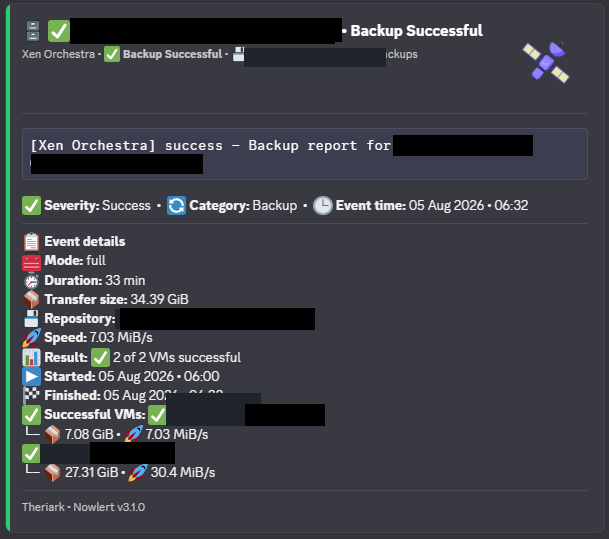
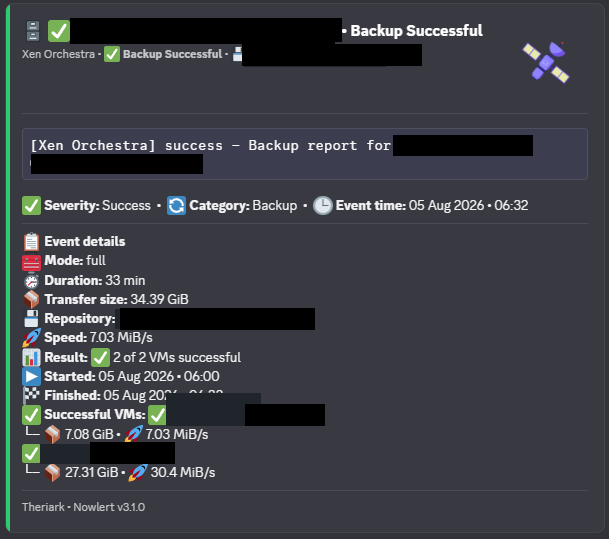
docs: screenshot privacy review of 18 November (NCE-95)
- New 1440 px Dashboard and Routing Flow captures of Development (27 November,
  Live, last month); the Dashboard capture no longer shows the page loading.
- Solid black boxes replace the blur in v2.5.2-settings and three Zabbix
  captures, and cover the host-name fragment and two blurred destination names
  in the historical v3.1.0 Routing Flow and the end of the repository label in
  the v3.1.0 Xen Orchestra card.
- The three token captures, opened at full size with no token value, are
  linked again from the hardware Redfish, Portainer and tutorials pages.
- WebUI guide: pager wording `Page n of N · X items`, the November WebUI
  changes (PRs 651 to 666), the Backups note; Docker Hub capture note.
- screenshot-privacy.md: the four open points recorded as decided by the
  product owner, inventory rows updated.

Changed region(s): [[0.3744, 0.0594, 0.7176, 0.1484]]

diff --git a/docs/guides/screenshot-privacy.md b/docs/guides/screenshot-privacy.md
@@ -343,14 +343,14 @@ and the `images/portainer-setup/` set, the TrueNAS delivery capture and the
 remaining Home Assistant delivery capture show no readable private label.
 
 The items below were raised by that review as lower-severity or judgement
-calls. The crew has not decided them; they need a person who can open the
-images and apply the project's privacy policy. They are review items, not
-confirmed exposures.
+calls. All of them are now decided; each item says how.
 
-- Routing flow capture `images/v3.1.0-routing-flow.png` (no longer embedded by
-  the README or the Docker Hub README since 24 October 2026; historical only):
-  a Zabbix route filter subtitle may carry a residual host-name fragment.
-  Decide whether to mask, recapture or withdraw.
+- Decided on 27 November 2026 by the product owner (Jira NCE-95): the
+  historical capture `images/v3.1.0-routing-flow.png` stays in the v3.1.0
+  record. The Zabbix route filter subtitle with its host-name fragment and the
+  two blurred destination names are now hidden by solid black boxes. The
+  current Routing Flow is the new capture of 27 November 2026,
+  `images/v27.0.0-rc.1/routing-flow-live-admin-1440.png`.
 - Decided on 2 November 2026: the delivery capture
   `images/hardware-setup/xen-orchestra-delivery.png` (embedded by the Xen
   Orchestra to Discord guide) showed a real backup job label in the Message
@@ -361,11 +361,14 @@ confirmed exposures.
   the backup job label in the title and the footer with the retired product
   name and an organisation fragment. Those three are now hidden by solid black
   boxes like the sibling cards; the card stays as unembedded history.
-- Blurred captures `images/v2.5.2-settings.png`, `images/zabbix-setup/action-operations.png`,
+- Decided on 27 November 2026 by the product owner (Jira NCE-95): in
+  `images/v2.5.2-settings.png`, `images/zabbix-setup/action-operations.png`,
   `images/zabbix-setup/media-enabled.png` and
-  `images/zabbix-setup/recipient-media.png`: parts are blurred and the blurred
-  text is unreadable, but blur is not a masking method this page accepts (see
-  "Adding or replacing an image"). Decide whether to recapture.
+  `images/zabbix-setup/recipient-media.png` every blurred area (the top-left
+  corner of the v2.5.2 Settings page, the Zabbix account name under the logo,
+  the action name, the users and e-mail recipient fields, and the list of
+  actions using the media type) is now covered by a solid black box. The
+  captures stay where they are used.
 - Decided on 25 October 2026 by the product owner (Jira TOPS-422): the
   `images/v27.0.0-rc.1/` set (embedded by the WebUI guide; since that day the
   README and Docker Hub README Preview embed its 1440 px Dashboard, Routing
@@ -384,14 +387,19 @@ confirmed exposures.
   `tools/validate_current_documentation.py` and
   `tests/test_current_documentation_contract.py` enforce the list of captures
   the Preview may use.
-- Token captures `images/hardware-setup/nowlert-token-list.png`,
+- Decided on 27 November 2026 by the product owner (Jira NCE-95): the token
+  captures `images/hardware-setup/nowlert-token-list.png`,
   `images/hardware-setup/nowlert-token-scope.png` and
-  `images/portainer-setup/token-scope.png`: not viewable by the crew (see
-  "Validation records"); unlinked from every current document on 23 October
-  2026; a person must open them before they are linked again.
-- Every retained row shows only its last recorded inspection date. Re-open any
-  capture whose date is considered too old, at full size, and update the
-  Record column.
+  `images/portainer-setup/token-scope.png` were opened at full size. They show
+  the Issue Event API token dialog before a token is issued and the token list;
+  no token value, private address or personal data is visible. They are linked
+  again from the hardware Redfish guide, the Portainer guide and the
+  infrastructure tutorials index.
+- Decided on 27 November 2026 by the product owner (Jira NCE-95): the
+  inspection dates in the Record column are accepted as recorded. A capture is
+  re-opened and its date updated when the capture, or the page it shows,
+  changes. Wording: the guides call the Security page section "API tokens"
+  (its title) and one token an "Event API token" (the dialog's name).
 
 ## Raster inventory
 
@@ -417,7 +425,7 @@ raster under `docs/images/` needs a row.
 | `images/v2.5.2-overview.png` | retained | historical v2.5.2 capture; not embedded; opened 23 Oct 2026 |
 | `images/v2.5.2-routes.png` | retained | historical v2.5.2 capture; not embedded; restored from Git history and masked 2 Nov 2026 (host filter text of one route); still shows route names, integrations, inputs and status |
 | `images/v2.5.2-routing-flow.png` | retained | historical v2.5.2 capture; not embedded; opened 23 Oct 2026 |
-| `images/v2.5.2-settings.png` | retained | historical v2.5.2 capture; not embedded; opened 23 Oct 2026; open point above |
+| `images/v2.5.2-settings.png` | retained | historical v2.5.2 capture; not embedded; opened 23 Oct 2026; blurred top-left corner covered by a black box 27 Nov 2026 |
 | `images/v2.5.2-sources.png` | retained | historical v2.5.2 capture; not embedded; opened 23 Oct 2026 |
 | `images/v2.5.2-teams.png` | retained | historical v2.5.2 capture; not embedded; opened 23 Oct 2026 |
 | `images/v3.1.0-dashboard.png` | retained | historical v3.1.0 capture; reviewed 15 Oct 2026 |
@@ -425,8 +433,8 @@ raster under `docs/images/` needs a row.
 | `images/v3.1.0-delivery-history.png` | retained | historical v3.1.0 capture; not embedded; restored from Git history and masked 3 Nov 2026 with five small black boxes over the private values only (the camera name in two row messages, the gateway name in one row title and its location line, and a device and person name in one row message; the earlier large mask was removed); still shows the page header, titles, sources, outcome chips, attempt and transport chips and times |
 | `images/v3.1.0-discord-idrac.png` | retained | historical v3.1.0 capture; not embedded; opened 23 Oct 2026 |
 | `images/v3.1.0-discord-unifi.png` | retained | historical v3.1.0 capture; not embedded; opened 23 Oct 2026 |
-| `images/v3.1.0-discord-xen-orchestra.png` | retained | historical v3.1.0 card embedded by the Xen Orchestra to Discord guide as historical; restored from Git history and masked 2 Nov 2026 (job name in the title and message, repository and the two VM names; the earlier partial masks kept; on 2 Nov 2026, cycle 3, also the trailing title glyph that was left beside the title mask); still shows mode, duration, sizes, speeds, times and the product footer |
-| `images/v3.1.0-routing-flow.png` | retained | historical v3.1.0 capture; reviewed 15 Oct 2026; open point above |
+| `images/v3.1.0-discord-xen-orchestra.png` | retained | historical v3.1.0 card embedded by the Xen Orchestra to Discord guide as historical; restored from Git history and masked 2 Nov 2026 (job name in the title and message, repository and the two VM names; the earlier partial masks kept; on 2 Nov 2026, cycle 3, also the trailing title glyph that was left beside the title mask); still shows mode, duration, sizes, speeds, times and the product footer; subtitle mask extended over the end of the repository label 27 Nov 2026 |
+| `images/v3.1.0-routing-flow.png` | retained | historical v3.1.0 capture; reviewed 15 Oct 2026; filter subtitle with a host-name fragment and two blurred destination names covered by black boxes 27 Nov 2026 |
 | `images/v3.1.0-teams-xen-orchestra.png` | retained | historical v3.1.0 card embedded by the Xen Orchestra to Teams guide as historical; restored from Git history and masked 2 Nov 2026 (user portrait beside the thread control; the earlier sender-name mask kept); still shows the test alert text, severity, category and the product footer |
 | `images/application-setup/checkmk-all-events.jpg` | retained | reviewed 15 Oct 2026 |
 | `images/application-setup/checkmk-sending-conditions.jpg` | retained | reviewed 15 Oct 2026 |
@@ -449,8 +457,8 @@ raster under `docs/images/` needs a row.
 | `images/hardware-setup/nowlert-destinations.png` | retained | reviewed 15 Oct 2026 |
 | `images/hardware-setup/nowlert-hardware-destination.png` | retained | reviewed 15 Oct 2026; stored webhook hidden |
 | `images/hardware-setup/nowlert-hardware-routes.png` | retained | reviewed 15 Oct 2026 |
-| `images/hardware-setup/nowlert-token-list.png` | retained | reviewed 15 and 21 Oct 2026 (token value hidden); not viewable by the crew on 22 Oct 2026, needs a person; unlinked 23 Oct 2026 |
-| `images/hardware-setup/nowlert-token-scope.png` | retained | reviewed 15 and 21 Oct 2026 (pre-issuance scope form); not viewable by the crew on 22 Oct 2026, needs a person; unlinked 23 Oct 2026 |
+| `images/hardware-setup/nowlert-token-list.png` | retained | reviewed 15 and 21 Oct 2026; opened at full size 27 Nov 2026, token list with no token value; linked again from the hardware Redfish guide 27 Nov 2026 |
+| `images/hardware-setup/nowlert-token-scope.png` | retained | reviewed 15 and 21 Oct 2026; opened at full size 27 Nov 2026, scope form before issuance with no token value; linked again from the hardware Redfish guide 27 Nov 2026 |
 | `images/hardware-setup/nowlert-xen-destination.png` | retained | reviewed 15 Oct 2026 |
 | `images/hardware-setup/nowlert-xen-routes.png` | retained | reviewed 15 Oct 2026 |
 | `images/hardware-setup/portainer-hpe-callback.png` | retained | reviewed 15 Oct 2026 |
@@ -485,7 +493,7 @@ raster under `docs/images/` needs a row.
 | `images/portainer-setup/node-rule-enabled.png` | retained | reviewed 15 Oct 2026 |
 | `images/portainer-setup/receiver-routing-proof.png` | retained | reviewed 15 Oct 2026 |
 | `images/portainer-setup/route-assignment.png` | retained | reviewed 15 Oct 2026 |
-| `images/portainer-setup/token-scope.png` | retained | reviewed 15 and 21 Oct 2026 (pre-issuance scope form); not viewable by the crew on 22 Oct 2026, needs a person; unlinked 23 Oct 2026 |
+| `images/portainer-setup/token-scope.png` | retained | reviewed 15 and 21 Oct 2026; opened at full size 27 Nov 2026, scope form before issuance with no token value; linked again from the Portainer guide 27 Nov 2026 |
 | `images/portainer-setup/webhook-channel.png` | retained | reviewed 15 Oct 2026 |
 | `images/portainer-setup/xen-backup-report-coverage.png` | retained | restored from Git history and masked 2 Nov 2026 (the three job names and identifiers that the earlier large mask left visible); still shows modes, schedule names, states and Report when values |
 | `images/truenas-setup/delivery-proof.png` | retained | reviewed 15 Oct 2026 |
@@ -499,7 +507,7 @@ raster under `docs/images/` needs a row.
 | `images/unifi-setup/protect-delivery.png` | retained | reviewed 15 Oct 2026 |
 | `images/unifi-setup/protect-noise-filter.png` | retained | reviewed 15 Oct 2026 |
 | `images/v27.0.0-rc.1/audit-log-overview-admin-1440.png` | retained | Development capture, 21 Oct 2026; restored from Git history and masked 2 Nov 2026 (the user column of the event list, the record identifier under each resource and, after the independent review the same day, the account name in the sidebar corner); still shows the health checks, counters, action and resource names and the selected event; embedded by the WebUI guide |
-| `images/v27.0.0-rc.1/dashboard-live-admin-1440.png` | retained | Development capture, 12 Nov 2026 (replaces the capture of 21 Oct 2026); opened at full size 12 Nov 2026; crew administrator, synthetic test events; README and Docker Hub Preview |
+| `images/v27.0.0-rc.1/dashboard-live-admin-1440.png` | retained | Development capture, 27 Nov 2026, Live with the month's data (replaces the capture of 12 Nov 2026, which showed the page still loading); opened at full size 27 Nov 2026; crew administrator, synthetic test events; README and Docker Hub Preview |
 | `images/v27.0.0-rc.1/dashboard-live-admin-390.png` | retained | Development capture, 12 Nov 2026 (replaces the capture of 21 Oct 2026); opened at full size 12 Nov 2026, no account, owner, destination or channel name; responsive-layout example in the WebUI guide |
 | `images/v27.0.0-rc.1/dashboard-live-admin-768.png` | retained | Development capture, 12 Nov 2026 (replaces the capture of 21 Oct 2026); opened at full size 12 Nov 2026 |
 | `images/v27.0.0-rc.1/dashboard-live-user-1440.png` | retained | Development capture, 12 Nov 2026 (replaces the capture of 21 Oct 2026); opened at full size 12 Nov 2026; crew user account |
@@ -520,7 +528,7 @@ raster under `docs/images/` needs a row.
 | `images/v27.0.0-rc.1/email-alerts-rules-admin-390.png` | retained | Development capture, 22 Oct 2026 |
 | `images/v27.0.0-rc.1/email-alerts-mailbox-edit-imap-admin-1440.png` | retained | Development capture, 22 Oct 2026; fixture address and loopback host only |
 | `images/v27.0.0-rc.1/filtering-list-admin-1440.png` | retained | Development capture, 12 Nov 2026 (replaces the capture of 31 Oct 2026); shared crew test destinations, their filter names and badges, Integration behavior cards with zero aliases |
-| `images/v27.0.0-rc.1/routing-flow-live-admin-1440.png` | retained | Development capture, 21 Oct 2026; opened at full size 25 Oct 2026; README and Docker Hub Preview |
+| `images/v27.0.0-rc.1/routing-flow-live-admin-1440.png` | retained | Development capture, 27 Nov 2026, Live, last month (replaces the capture of 21 Oct 2026); opened at full size 27 Nov 2026; crew administrator, test integrations and destinations; README and Docker Hub Preview |
 | `images/v27.0.0-rc.1/routing-flow-live-admin-390.png` | retained | Development capture, 21 Oct 2026; opened 24 Oct 2026, no account, owner, destination or channel name; responsive-layout example in the WebUI guide |
 | `images/v27.0.0-rc.1/routing-flow-live-admin-768.png` | retained | Development capture, 21 Oct 2026 |
 | `images/v27.0.0-rc.1/security-profile-admin-1440.png` | retained | Development capture, 12 Nov 2026 (replaces the capture of 31 Oct 2026); crew administrator account, empty token list, no token value |
@@ -530,11 +538,11 @@ raster under `docs/images/` needs a row.
 | `images/v27.0.0-rc.1/sign-in-empty-signed-out-390.png` | retained | Development capture, 21 Oct 2026; opened 24 Oct 2026, no account, owner, destination or channel name; not embedded since 25 Oct 2026 |
 | `images/v27.0.0-rc.1/sign-in-empty-signed-out-768.png` | retained | Development capture, 21 Oct 2026 |
 | `images/v27.0.0-rc.1/users-search-admin-1440.png` | retained | Development capture, 12 Nov 2026 (replaces the capture of 21 Oct 2026); opened at full size 12 Nov 2026; crew accounts only; two black boxes hide the Development administrator's account name in Recent activity |
-| `images/zabbix-setup/action-operations.png` | retained | reviewed 15 Oct 2026 |
-| `images/zabbix-setup/media-enabled.png` | retained | reviewed 15 Oct 2026 |
+| `images/zabbix-setup/action-operations.png` | retained | reviewed 15 Oct 2026; blurred account name, action name and users field covered by black boxes 27 Nov 2026 |
+| `images/zabbix-setup/media-enabled.png` | retained | reviewed 15 Oct 2026; blurred account name and action list covered by black boxes 27 Nov 2026 |
 | `images/zabbix-setup/native-recovery-accepted.png` | retained | reviewed 15 Oct 2026 |
 | `images/zabbix-setup/native-problem-accepted.png` | retained | reviewed 15 Oct 2026 |
-| `images/zabbix-setup/recipient-media.png` | retained | reviewed 15 Oct 2026 |
+| `images/zabbix-setup/recipient-media.png` | retained | reviewed 15 Oct 2026; blurred account name and e-mail recipient covered by black boxes 27 Nov 2026 |
 
 ## Validation records
 
@@ -554,9 +562,9 @@ hidden, or the pre-issuance scope form, and no token value. The independent
 review of 22 October 2026 could not open these three files: the crew's run
 refused to read them because of their file names, and that rule was not
 bypassed. The 21 October record is therefore unconfirmed by that review, and
-a person must open the three files and update their rows. Since 23 October
-2026 no current document embeds or links them; the guides describe the token
-dialog and the token list in writing. A file name that mentions a token is
+a person had to open the three files and update their rows. That was done on
+27 November 2026 (see the decided items above): no token value is visible, and
+the guides embed them again next to the written steps. A file name that mentions a token is
 not, by itself, evidence of a leak; inspect the image.
 
 ## Adding or replacing an image

diff --git a/docs/webui.md b/docs/webui.md
@@ -9,17 +9,19 @@ from the released v3.1.6 WebUI; see
 [development after v3.1.6](releases/post-v3.1.6-development.md) for the list of
 changes. v3.1.6 is the last stable release; the development build is the
 v27.0.0 release-candidate line and still reports application version 3.1.6.
-The screenshots under `images/v27.0.0-rc.1/` were captured on 21 to
-23 October 2026 (the Settings, the two Security and the Filtering captures on
-31 October 2026) from the Development deployment of the `development` branch
-with the crew's Development test accounts and test data; they are the
-reviewed screenshot set reused since the `v27.0.0-rc.7` documentation
-package, with those four captures replaced on 31 October 2026 (see the
-[folder index](images/v27.0.0-rc.1/README.md)). Since then the only application change in the later
-`development` commits, up to the source of the current release candidate, is
-the Destinations empty-state fix in `src/webui/app.js` and
-`src/webui/professional.css` (THE-1654, PR 641); every other change is to
-documentation, tests, a workflow file and the documentation checks. The
+The screenshots under `images/v27.0.0-rc.1/` were captured from the Development
+deployment of the `development` branch with the crew's Development test accounts
+and test data: most on 21 to 23 October 2026, the Settings, the two Security and
+the Filtering captures on 31 October, the November WebUI changes on 12 November
+(PR 659) and the 1440 px Dashboard and Routing Flow on 27 November 2026 (see the
+[folder index](images/v27.0.0-rc.1/README.md)). The WebUI changes merged since
+October are the Destinations empty-state fix (PR 641); sign-in, page speed and
+laptop layout, the Security page without its duplicate Restart button, the
+Delivery Performance chart, the Users activity list, the click-to-pick token
+integrations and the Email Alerts rule cards (PRs 651 to 658); Restart Nowlert in
+the administrator's profile menu, the View filter dialog footer and the phone
+menu (PRs 663 to 665); and the fingerprinted script and stylesheet links that
+keep a browser from using an old file after an update (PR 666). The
 desktop (1440 px)
 captures are the reference views of each page; the
 [narrow browser windows](#narrow-browser-windows) section shows the
@@ -313,7 +315,7 @@ the newest events after a restart.
 Pagination behavior is shared with Audit log:
 
 - **First / Previous / Next / Last** remain available;
-- the editable page number is embedded in `Page [n] of N - X items`;
+- the editable page number is embedded in `Page n of N · X items`;
 - pressing Enter in that field performs direct navigation;
 - **Top** sits on the left side of the bottom control row;
 - **Entries** sits on the right side of the same row;
@@ -437,7 +439,7 @@ Data Tools deliberately excludes users, credentials, token material, Delivery
 history and Audit log. Housekeeping controls local history retention separately.
 
 The Backups page shows the configured backup target addresses, so it is not
-captured; follow the written steps above.
+captured; the list above describes what it offers.
 
 ## Narrow browser windows
 

diff --git a/docs/guides/infrastructure-tutorials.md b/docs/guides/infrastructure-tutorials.md
@@ -64,8 +64,8 @@ problem, recovery and success behavior of each integration and its source limits
 | TrueNAS saved Info Email service | [Service, appliance hostname masked](../images/truenas-setup/info-alert-service.png) |
 | TrueNAS native alert delivery | [Delivery proof](../images/truenas-setup/delivery-proof.png) |
 | iLO resource noise suppressed centrally | [Rule](../images/hardware-setup/ilo-resource-filter.png), [filtered outcomes](../images/hardware-setup/ilo-resource-filter-proof.png) |
-| Hardware token scope selection | In the **Issue Event API token** dialog, confirm **Allowed integrations** holds only Supermicro, HPE iLO and Dell iDRAC before choosing **Issue token**; written steps in [the hardware guide](hardware-redfish-setup.md), no capture published. |
-| Issued token list, credential value excluded | In **Profile menu → Security → API tokens**, confirm the new row shows the token name, its allowed integrations, the rate limit and **Active**; the list never shows the value. |
+| Hardware token scope selection | In the **Issue Event API token** dialog, confirm **Allowed integrations** holds only Supermicro, HPE iLO and Dell iDRAC before choosing **Issue token**; written steps in [the hardware guide](hardware-redfish-setup.md); [Token form](../images/hardware-setup/nowlert-token-scope.png) |
+| Issued token list, credential value excluded | In **Profile menu → Security → API tokens**, confirm the new row shows the token name, its allowed integrations, the rate limit and **Active**; the list never shows the value. [Token list](../images/hardware-setup/nowlert-token-list.png) |
 | Configured destination list | [Destinations](../images/hardware-setup/nowlert-destinations.png) |
 | Hardware Discord edit form | [Hardware destination](../images/hardware-setup/nowlert-hardware-destination.png) |
 | Built-in hardware routes | [Redfish assignments](../images/hardware-setup/nowlert-hardware-routes.png) |

diff --git a/docs/guides/hardware-redfish-setup.md b/docs/guides/hardware-redfish-setup.md
@@ -88,6 +88,8 @@ for the controller configuration examples.
    and cannot show it again. Copy the value into your password manager, then
    choose **I saved it**.
 
+![Issue Event API token dialog with only the hardware integrations selected, before the token is issued (captured October 2026; the list now picks an integration with a plain click)](../images/hardware-setup/nowlert-token-scope.png)
+
 Although the dialog describes the normalized Event API, these source-scoped
 tokens also authenticate the corresponding vendor Redfish receivers.
 
@@ -96,7 +98,9 @@ The **Event API tokens** list then shows the new row with its name,
 `60/min`, **Never used**, and an **Active** status. The value itself is never
 listed; if it is lost, use **Rotate** to issue a new one. You paste the value
 into each controller's subscription as the `X-Nowlert-Token` header value
-(section 3); no capture of the dialog or the list is published.
+(section 3).
+
+![Event API tokens list with the hardware token; the list never shows a token value](../images/hardware-setup/nowlert-token-list.png)
 
 ## 2. Configure the destination and assign built-in routes
 
@@ -292,8 +296,7 @@ configuration is not automatically installed by the Nowlert image.
 
 ## Screenshot checklist for a completed controller test
 
-- Hardware token scope, with its value hidden (described in writing in
-  section 1; no capture of the token dialog or token list is published).
+- Hardware token scope and the token list, with no token value (section 1).
 - Controller subscription destination and status, with authentication redacted.
 - Nowlert delivery details showing the Redfish input and delivered result.
 - The resulting destination card.

diff --git a/docs/images/v27.0.0-rc.1/README.md b/docs/images/v27.0.0-rc.1/README.md
@@ -47,8 +47,8 @@ pixels at scale 1: 1440×900 (desktop), 768×1024 (tablet) and 390×844 (phone).
 | `sign-in-empty-signed-out-1440.png` | Sign in, empty form | signed out | 1440 | about 14:40 |
 | `sign-in-empty-signed-out-768.png` | Sign in, empty form | signed out | 768 | about 14:40 |
 | `sign-in-empty-signed-out-390.png` | Sign in, empty form | signed out | 390 | about 14:40 |
-| `dashboard-live-admin-1440.png` | Dashboard, Live, last month | administrator | 1440 | replaced 12 Nov 2026, 19:00 |
-| `routing-flow-live-admin-1440.png` | Routing Flow, Live, last 24 hours | administrator | 1440 | 15:48 |
+| `dashboard-live-admin-1440.png` | Dashboard, Live, last month | administrator | 1440 | replaced 27 Nov 2026, 11:58 |
+| `routing-flow-live-admin-1440.png` | Routing Flow, Live, last month | administrator | 1440 | replaced 27 Nov 2026, 12:02 |
 | `destinations-list-admin-1440.png` | Destinations list | administrator | 1440 | 15:48 |
 | `filtering-list-admin-1440.png` | Filtering with Integration behavior | administrator | 1440 | replaced 12 Nov 2026, 19:00 |
 | `email-alerts-rules-admin-1440.png` | Email Alerts, Rules tab | administrator | 1440 | 15:49 |

diff --git a/DOCKERHUB_README.md b/DOCKERHUB_README.md
@@ -53,11 +53,10 @@ images; this does not claim that development changes have been published.
 ## Preview
 
 Nowlert CE is a desktop web application. These captures show the WebUI of the
-v27.0.0 release-candidate line at desktop width (1440 × 900 px), taken on
-21 October 2026 from the Development deployment with the crew's Development
-test accounts and test data (the reviewed screenshot set reused unchanged
-since the `v27.0.0-rc.7` documentation package). The stable `3.1.6` image has
-an older WebUI.
+v27.0.0 release-candidate line at desktop width (1440 × 900 px), taken from the
+Development deployment with the crew's Development test accounts and test data:
+the Dashboard and Routing Flow on 27 November 2026, Destinations and Sign in on
+21 October 2026. The stable `3.1.6` image has an older WebUI.
 
 ### Dashboard
 

diff --git a/CHANGELOG.md b/CHANGELOG.md
@@ -2,6 +2,18 @@
 
 ## Unreleased
 
+### Documentation
+
+- Screenshot privacy review (NCE-95): new 1440 px Dashboard and Routing Flow
+  captures of Development, Live with the month's data; solid black boxes
+  replace the blur in four Zabbix and Settings captures and cover the
+  host-name fragment and blurred names in the historical v3.1.0 Routing Flow
+  and the end of the repository label in the v3.1.0 Xen Orchestra card; the
+  three token captures, opened and free of token values, are linked again;
+  the WebUI guide's pager wording, change list and Backups note and the
+  Docker Hub capture note are corrected; the open privacy points are recorded
+  as decided.
+
 ### Fixed
 
 - Destinations: a "No destinations" placeholder painted before the workspace

diff --git a/docs/guides/portainer-to-discord.md b/docs/guides/portainer-to-discord.md
@@ -45,7 +45,9 @@ API token** dialog opens:
 The token list afterwards shows the name, **Portainer** under **Allowed
 integrations**, `60/min`, **Never used** and **Active**, never the value. You
 paste the value once, as the `token` query value of the webhook URL in section
-3. No capture of the token dialog is published.
+3.
+
+![Issue Event API token dialog with only Portainer selected, before the token is issued (captured October 2026)](../images/portainer-setup/token-scope.png)
 
 The token authorizes event submission for Portainer, not administrator API access.
 The same token works on the native Portainer receiver in the fixed image.
